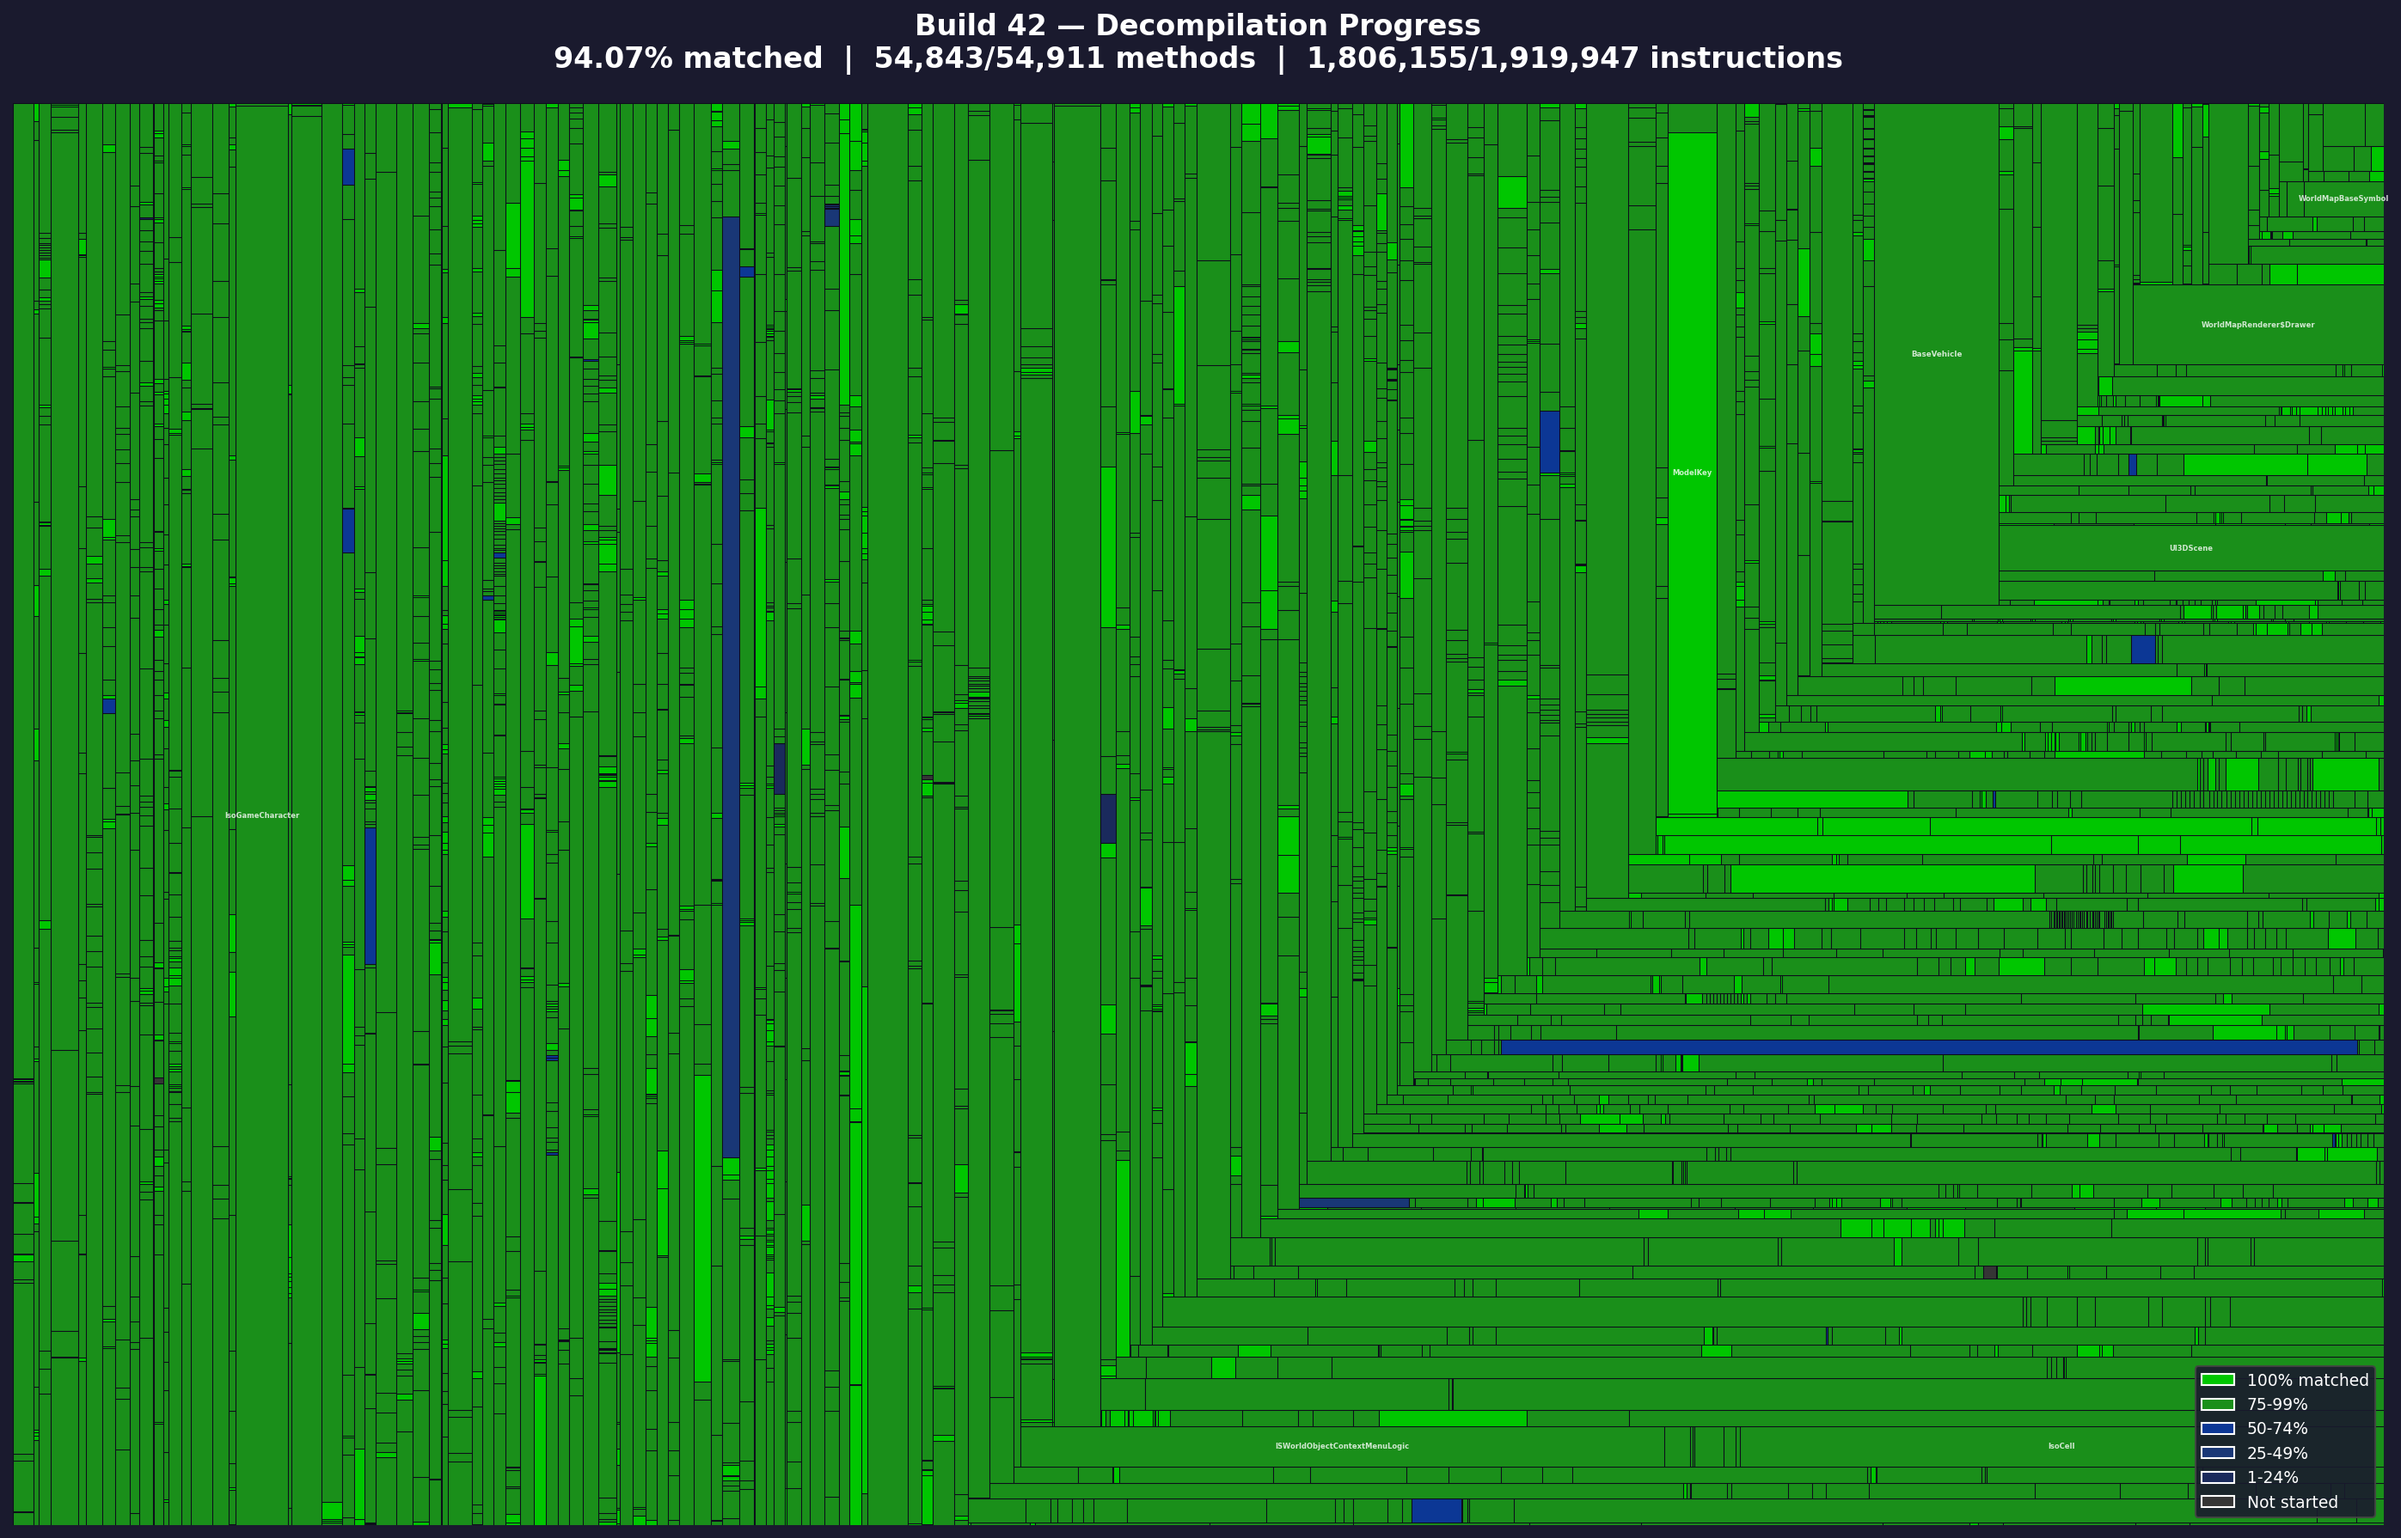
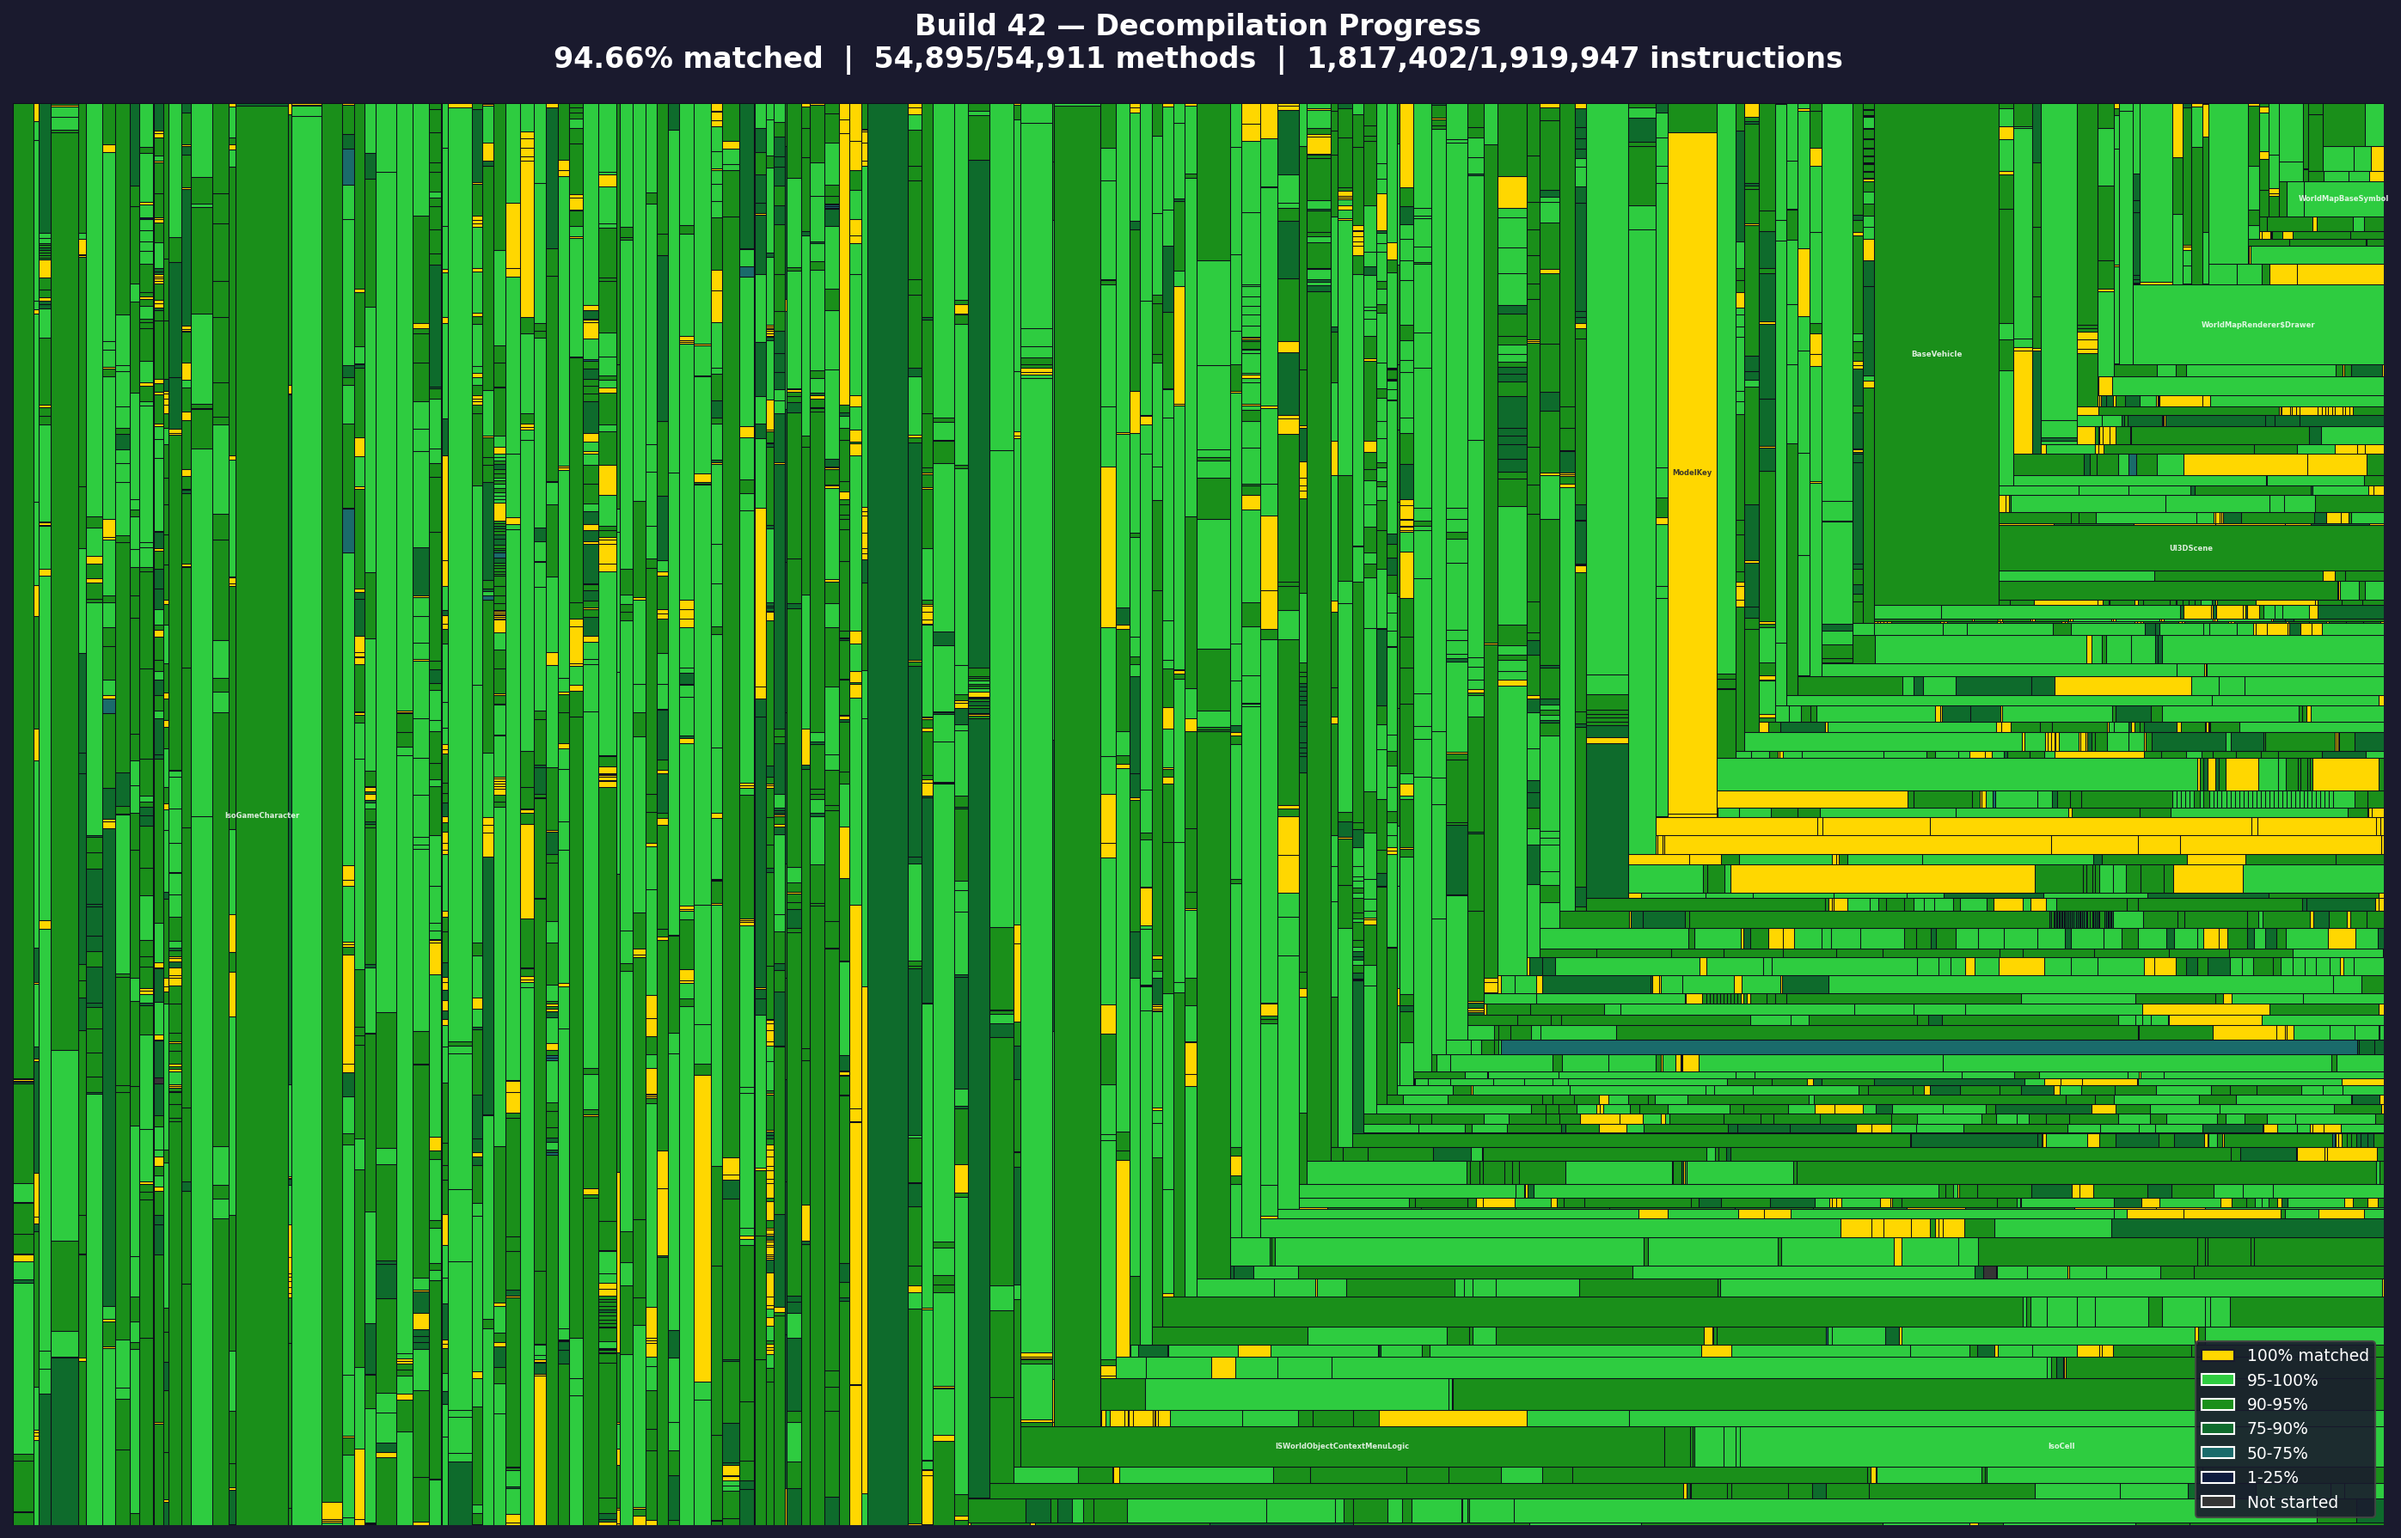
feat: fix NonBlocking* CHM assertion init order, update b42 progress image
- Extend CHM assertion fix to all 4 NonBlocking* collection classes
  (was only NonBlockingHashMapLong, now also HashMap, Hashtable, IdentityHashMap)
- Update b42 progress image with new color scheme

diff --git a/src/main/java/com/github/zomboiddecompiler/PostDecompileTransforms.java b/src/main/java/com/github/zomboiddecompiler/PostDecompileTransforms.java
@@ -4759,24 +4759,54 @@ public final class PostDecompileTransforms {
         return content;
     }
 
-    // ── NonBlockingHashMapLong$CHM: restore assertion init in <clinit> ───
+    // ── NonBlocking*$CHM: restore assertion init in <clinit> ───
     // The original inner class CHM has its own $assertionsDisabled field initialized
     // in its <clinit> BEFORE the AtomicFieldUpdater static fields. The decompiler
     // merges this into the outer class field. We add a local _assertionsDisabled
     // field to CHM so it gets its own <clinit> entry matching the original ordering.
+    // Applies to: NonBlockingHashMapLong, NonBlockingHashMap, NonBlockingHashtable,
+    //             NonBlockingIdentityHashMap
     private static String fixCHMAssertionInitOrder(String content) {
-        if (!content.contains("class NonBlockingHashMapLong<")) return content;
-        String marker = "private static final class CHM<TypeV> implements Serializable {";
-        if (!content.contains(marker)) return content;
+        // NonBlockingHashMapLong: CHM<TypeV> implements Serializable, first field is _nbhml
+        content = fixCHMAssertionInitOrderFor(content,
+                "class NonBlockingHashMapLong<",
+                "private static final class CHM<TypeV> implements Serializable {",
+                "final NonBlockingHashMapLong _nbhml;",
+                "NonBlockingHashMapLong");
+        // NonBlockingHashMap: CHM<TypeK, TypeV>, first field is _size
+        content = fixCHMAssertionInitOrderFor(content,
+                "class NonBlockingHashMap<",
+                "private static final class CHM<TypeK, TypeV> {",
+                "private final Counter _size;",
+                "NonBlockingHashMap");
+        // NonBlockingHashtable: CHM<TypeK, TypeV>, first field is _size
+        content = fixCHMAssertionInitOrderFor(content,
+                "class NonBlockingHashtable<",
+                "private static final class CHM<TypeK, TypeV> {",
+                "private final Counter _size;",
+                "NonBlockingHashtable");
+        // NonBlockingIdentityHashMap: CHM<TypeK, TypeV>, first field is _size
+        content = fixCHMAssertionInitOrderFor(content,
+                "class NonBlockingIdentityHashMap<",
+                "private static final class CHM<TypeK, TypeV> {",
+                "private final Counter _size;",
+                "NonBlockingIdentityHashMap");
+        return content;
+    }
+
+    private static String fixCHMAssertionInitOrderFor(String content,
+            String classGuard, String chmMarker, String firstField, String outerClassName) {
+        if (!content.contains(classGuard)) return content;
+        if (!content.contains(chmMarker)) return content;
         // Only apply if CHM does not already have its own _assertionsDisabled field
-        int chmStart = content.indexOf(marker);
+        int chmStart = content.indexOf(chmMarker);
         // Find the next class-level declaration boundary (next "private static final class" or end of file)
-        int nextClass = content.indexOf("private static final class ", chmStart + marker.length());
+        int nextClass = content.indexOf("private static final class ", chmStart + chmMarker.length());
         String chmBody = nextClass > 0 ? content.substring(chmStart, nextClass) : content.substring(chmStart);
         if (chmBody.contains("static final boolean _assertionsDisabled")) return content;
         content = content.replace(
-                marker + "\n        final NonBlockingHashMapLong _nbhml;",
-                marker + "\n       static final boolean _assertionsDisabled = !NonBlockingHashMapLong.class.desiredAssertionStatus();\n\n        final NonBlockingHashMapLong _nbhml;");
+                chmMarker + "\n        " + firstField,
+                chmMarker + "\n       static final boolean _assertionsDisabled = !" + outerClassName + ".class.desiredAssertionStatus();\n\n        " + firstField);
         return content;
     }
 
